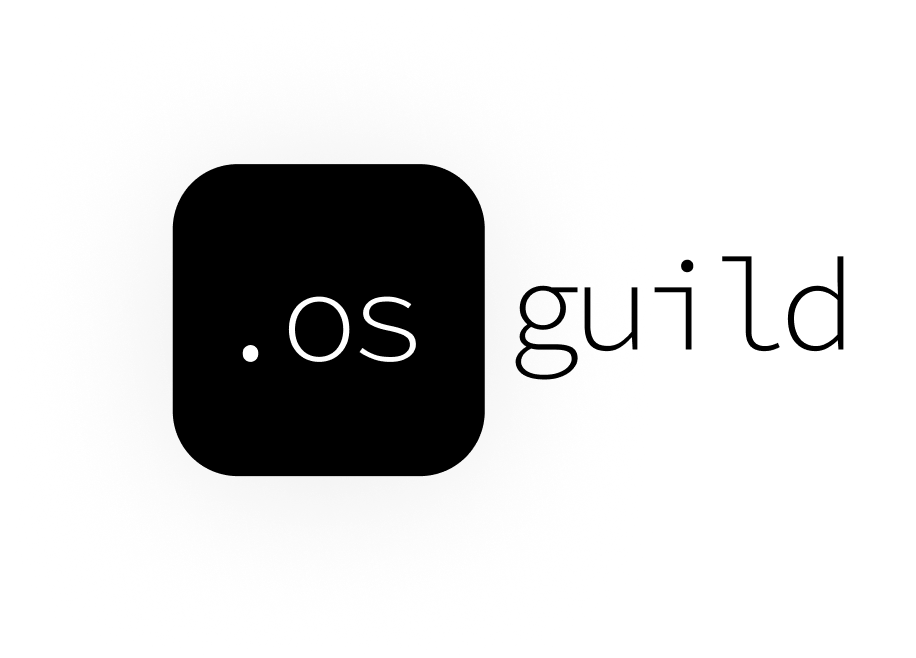
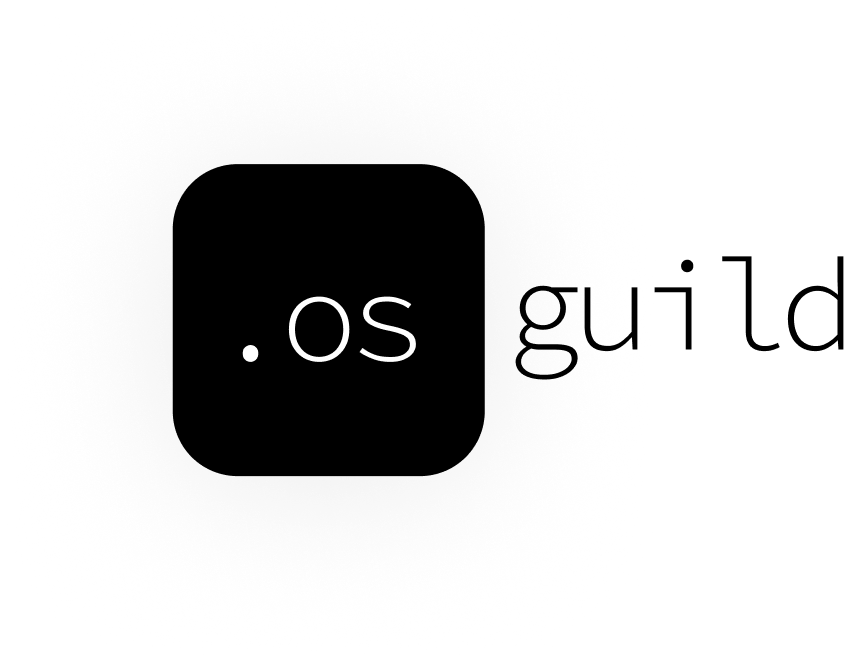
Update: quick fixies on FAQ and Partners

diff --git a/src/components/PartnersSection.tsx b/src/components/PartnersSection.tsx
@@ -4,15 +4,60 @@ import LogoLoop from './LogoLoop';
 import { partners } from '../data/partners';
 
 const PartnersSection: React.FC = () => {
-  const logoItems = partners.map((partner) => ({
-    node: (
-      <div className="px-8 py-4 border border-[var(--color-line)] rounded-lg bg-[var(--color-glass)] min-w-[200px] h-[60px] flex items-center justify-center select-none">
-        <span className={`text-base font-bold tracking-tight font-heading ${partner.placeholder ? 'text-[var(--color-ink-dim)] opacity-60' : 'text-[var(--color-ink)]'}`}>
-          {partner.placeholder ? "Coming Soon" : partner.name}
+  const logoItems = partners.map((partner) => {
+    let content;
+    if (partner.placeholder) {
+      content = (
+        <span className="text-base font-bold tracking-tight font-heading text-[var(--color-ink-dim)] opacity-60">
+          Coming Soon
         </span>
-      </div>
-    )
-  }));
+      );
+    } else if (partner.logo) {
+      const isOsguild = partner.id === 'osguild';
+      const logoClass = isOsguild 
+        ? "h-16 md:h-20 max-w-full object-contain" 
+        : "h-14 md:h-16 max-w-full object-contain";
+
+      if (partner.logoDark) {
+        content = (
+          <>
+            <img 
+              src={partner.logo} 
+              alt={partner.name} 
+              className={`partner-logo-light ${logoClass}`} 
+            />
+            <img 
+              src={partner.logoDark} 
+              alt={partner.name} 
+              className={`partner-logo-dark ${logoClass}`} 
+            />
+          </>
+        );
+      } else {
+        content = (
+          <img 
+            src={partner.logo} 
+            alt={partner.name} 
+            className={logoClass} 
+          />
+        );
+      }
+    } else {
+      content = (
+        <span className="text-base font-bold tracking-tight font-heading text-[var(--color-ink)]">
+          {partner.name}
+        </span>
+      );
+    }
+
+    return {
+      node: (
+        <div className="flex items-center justify-center select-none min-w-[150px] md:min-w-[200px] h-[90px]">
+          {content}
+        </div>
+      )
+    };
+  });
 
   return (
     <section id="partners" className="py-16 md:py-24 max-w-[1180px] mx-auto px-4 md:px-8">
@@ -21,8 +66,8 @@ const PartnersSection: React.FC = () => {
         <LogoLoop
           logos={logoItems}
           speed={60}
-          gap={32}
-          logoHeight={60}
+          gap={48}
+          logoHeight={90}
           pauseOnHover={true}
           fadeOut={true}
           fadeOutColor="var(--bg)"

diff --git a/src/data/partners.ts b/src/data/partners.ts
@@ -1,14 +1,19 @@
+import osguildLogo from '../assets/osguild.png';
+import osguildWhiteLogo from '../assets/Osguils-white.png';
+import gdgLogo from '../assets/GDG.png';
+import bitdevsLogo from '../assets/bitdevs-black.png';
+import bitdevsWhiteLogo from '../assets/bitdevs-white.png';
+
 export interface Partner {
   id: string;
   name: string;
   logo: string | null;
+  logoDark?: string | null;
   placeholder: boolean;
 }
 
 export const partners: Partner[] = [
-  { id: "osguild", name: "OSGuild", logo: null, placeholder: false },
-  { id: "bitdevs-mu", name: "BitDevs Mauritius", logo: null, placeholder: false },
-  { id: "slot-3", name: "Your logo here", logo: null, placeholder: true },
-  { id: "slot-4", name: "Your logo here", logo: null, placeholder: true },
-  { id: "slot-5", name: "Your logo here", logo: null, placeholder: true },
+  { id: "osguild", name: "OSGuild", logo: osguildLogo, logoDark: osguildWhiteLogo, placeholder: false },
+  { id: "bitdevs-mu", name: "BitDevs Mauritius", logo: bitdevsLogo, logoDark: bitdevsWhiteLogo, placeholder: false },
+  { id: "gdg", name: "GDG", logo: gdgLogo, placeholder: false },
 ];

diff --git a/src/App.css b/src/App.css
@@ -354,5 +354,19 @@
   opacity: 1;
 }
 
+/* Partner Logo theme switching */
+.app-container .partner-logo-dark {
+  display: none;
+}
+.app-container .partner-logo-light {
+  display: block;
+}
+.app-container.dark-bg .partner-logo-dark {
+  display: block;
+}
+.app-container.dark-bg .partner-logo-light {
+  display: none;
+}
+
 
 

diff --git a/src/data/faq.ts b/src/data/faq.ts
@@ -8,6 +8,6 @@ export const faq: FAQItem[] = [
   { id: "prior-experience", question: "Do I need prior open-source experience?", answer: "No. Genesis is built for people taking their first steps as much as for people who've contributed before." },
   { id: "beginner-friendly", question: "Is the workshop beginner friendly?", answer: "Yes — sessions are designed to be approachable for first-time contributors, with no assumed background beyond basic coding." },
   { id: "what-to-bring", question: "What should I bring?", answer: "A laptop with Git installed and a GitHub account. Everything else will be covered on the day." },
-  { id: "is-it-free", question: "Is participation free?", answer: "TBA - Confirm with organizer before launch." },
-  { id: "recordings", question: "Will recordings be available?", answer: "TBA - Confirm with organizer before launch." },
+  { id: "is-it-free", question: "Is participation free?", answer: "Yes!" },
+  { id: "recordings", question: "Will recordings be available?", answer: "Yes!" },
 ];